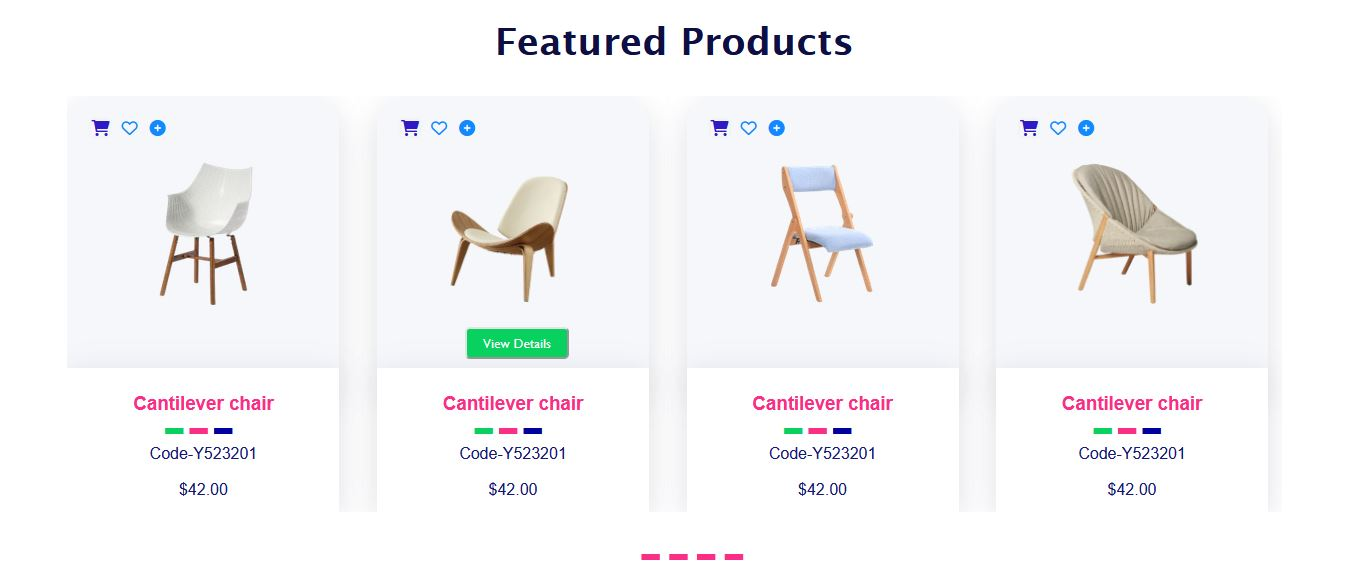
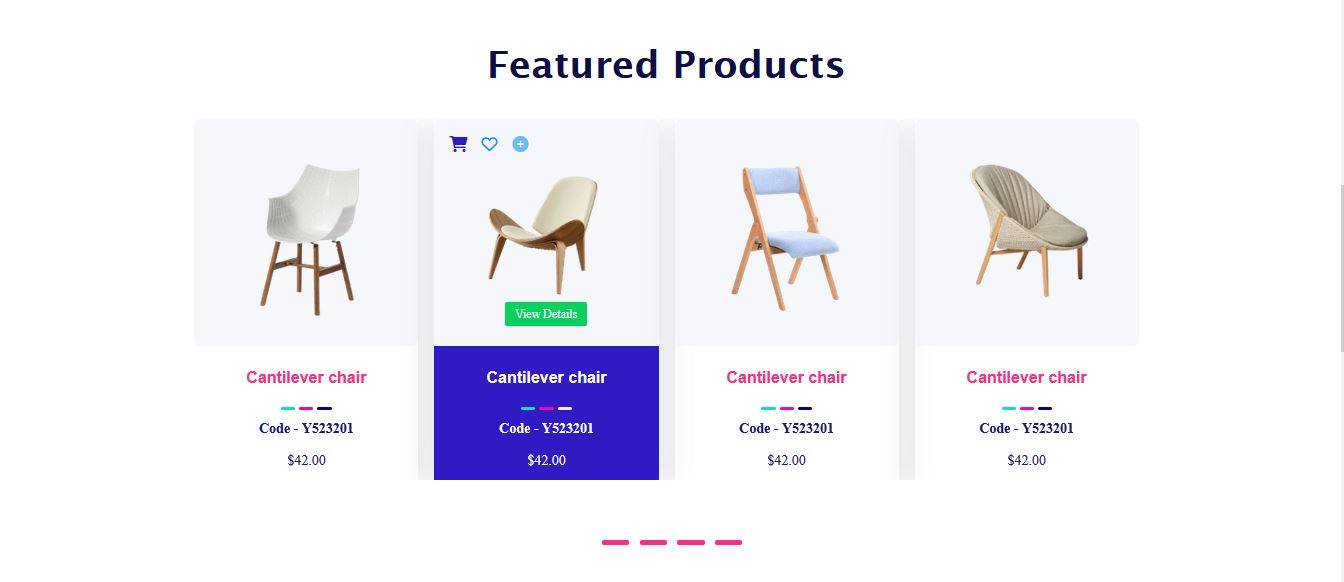
more feautures added

diff --git a/style1.css b/style1.css
@@ -354,6 +354,10 @@ text-decoration: none;
     color: #FFF;
 }
 
+.upper-and-lower-home-page2-middle-grid-content:hover .button3{
+    background-color: #FFEAC1;
+}
+
 .upper-and-lower-home-page2-middle-grid-content:hover .magic-icon{
     visibility: visible;
 }
@@ -415,98 +419,6 @@ text-decoration: none;
 }
 
  
-/* home page3 starts here */
-.home-page3-first-header{
-    font-family:'Lucida Sans', 'Lucida Sans Regular', 'Lucida Grande';
-    font-size: 1.2rem;
-    /* line-height: 1rem; */
-    text-align: center;
-    color: #2F1AC4 ;
-    padding-bottom: 0rem;
-    padding-top: 2rem;
-}
-
-.home-page3-sub-header{
-    display: flex;
-    color:#151875 ;
-    padding-left:1.5rem ;
-    font-family: Arial, Helvetica, sans-serif;
-    
-    /* font-weight: 400; */
-}
-
-.home-page3-sub-header li{
-    margin: 0.3rem;
-    line-height: 1.1rem;
-    font-weight: 700;
-    font-size: 12px;
-}
-.home-page3-sub-header li:hover{
-    color: #FB2E86;
-}
-
-.home-page3-middle-grid{
-    display: block;
-    grid-template-columns: 1fr 1fr 1fr;
-     gap:2rem ;
-    width: 90%;
-    overflow: hidden;
-    margin: auto;
-    /* padding-left: 14rem; */
-}
-.home-page3-sales-tag-chair-icon{
-    /* height: 90vh; */
-} 
-
-.home-page3-sales-tag-chair-icon img{
-    padding-left: 6.5rem;
-    width: 90%;
-    /* background-color: #000000; */
-    /* box-shadow: rgba(100, 100, 111, 0.2) 0px 7px 29px 0px;  */
-
-    /* margin: -1rem; */
-    
-}
-
-.confy-price-section{
-    display: flex;
-    justify-content: space-between;
-    padding: auto;
-    font-family: Arial, Helvetica, sans-serif;
-    
-}
-
-.home-page3-middle-grid-just-price{
-    display: flex;
-    padding-top: 0.9rem;
-
-}
-
-.home-page3-middle-grid-just-price h5{
-    color: #151875;
-    padding-right: 1.5rem;
-}
-
-.home-page3-middle-grid-just-price h6{
-    color: #FB2448;
-    /* padding-right: 3rem; */
-    text-decoration: line-through;
-}
-
-.confy-price-section h4{
-    color: #151875;
-    font-size: 1rem;
-    line-height: 1.1rem;
-    font-weight: 300;
-    background-color: whitesmoke;
-    padding-left: 1rem;
-    padding-right: 1rem;
-    padding-top:0.2rem ;
-    padding-bottom: 0.2rem;
-    margin-top: 0.6rem;
-    /* box-shadow: rgba(100, 100, 111, 0.2) 0px 7px 29px 0px;  */
-    
-}
 
 
 @media screen and (min-width:768px){
@@ -678,8 +590,8 @@ text-decoration: none;
            
         .text-page1 p{
             font-family: Arial;
-            font-size: 1rem;
-            line-height: 1.6rem;
+            font-size: 0.83rem;
+            line-height: 1.5rem;
             color: #8A8FB9;
             font-style: normal;
             font-weight: 700;
@@ -688,8 +600,8 @@ text-decoration: none;
           
         .text-page1 button{
             background-color: #FB2E86;
-            width: 10.4rem;
-            height: 3.1rem;
+            width: 9rem;
+            height: 3rem;
             border-radius: 0.13rem;
         }
           
@@ -820,7 +732,7 @@ text-decoration: none;
         }
 
         .button3{
-            background-color:#FFEAC1 ;
+            background-color:#00009D ;
         }
         
         .upper-and-lower-home-page2-middle-grid-content:hover .middle-grid-lower-section{
@@ -846,6 +758,9 @@ text-decoration: none;
 
         .upper-and-lower-home-page2-middle-grid-content:hover .magic-icon{
             visibility: visible;
+        }
+        .upper-and-lower-home-page2-middle-grid-content:hover .button3{
+            background-color: #FFEAC1;
         }
            
         .middle-grid-lower-section h3{
